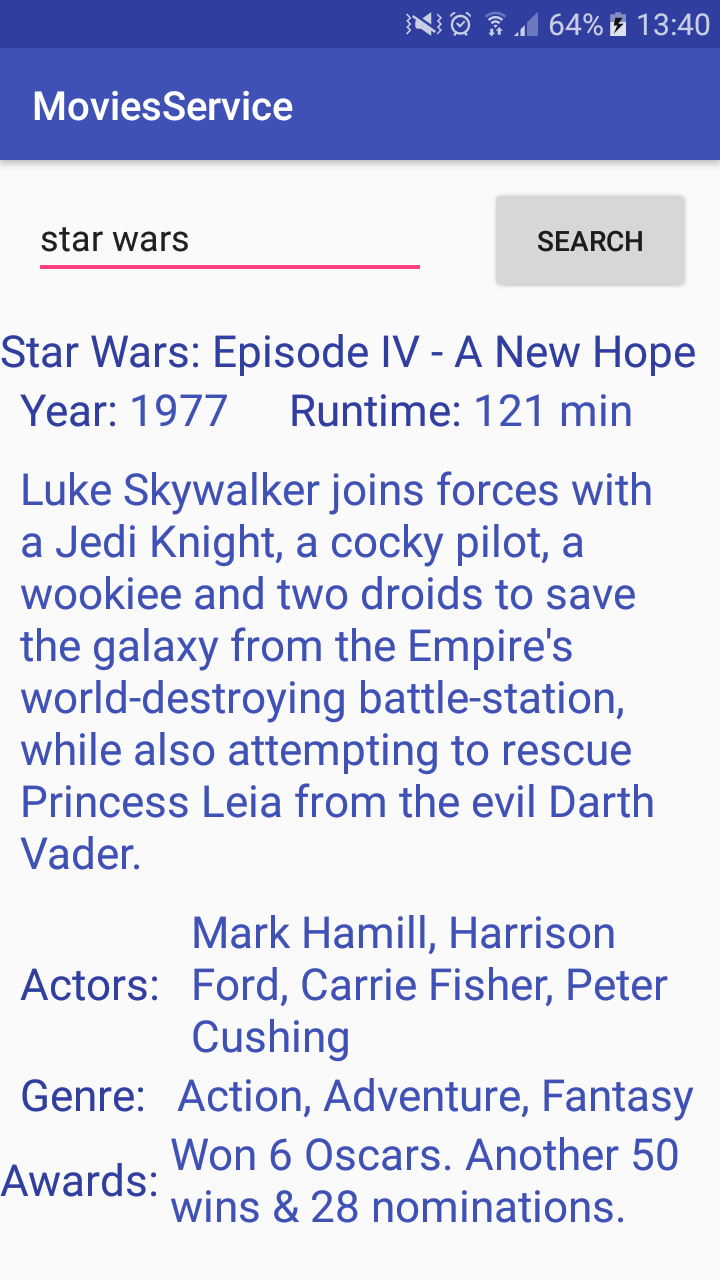
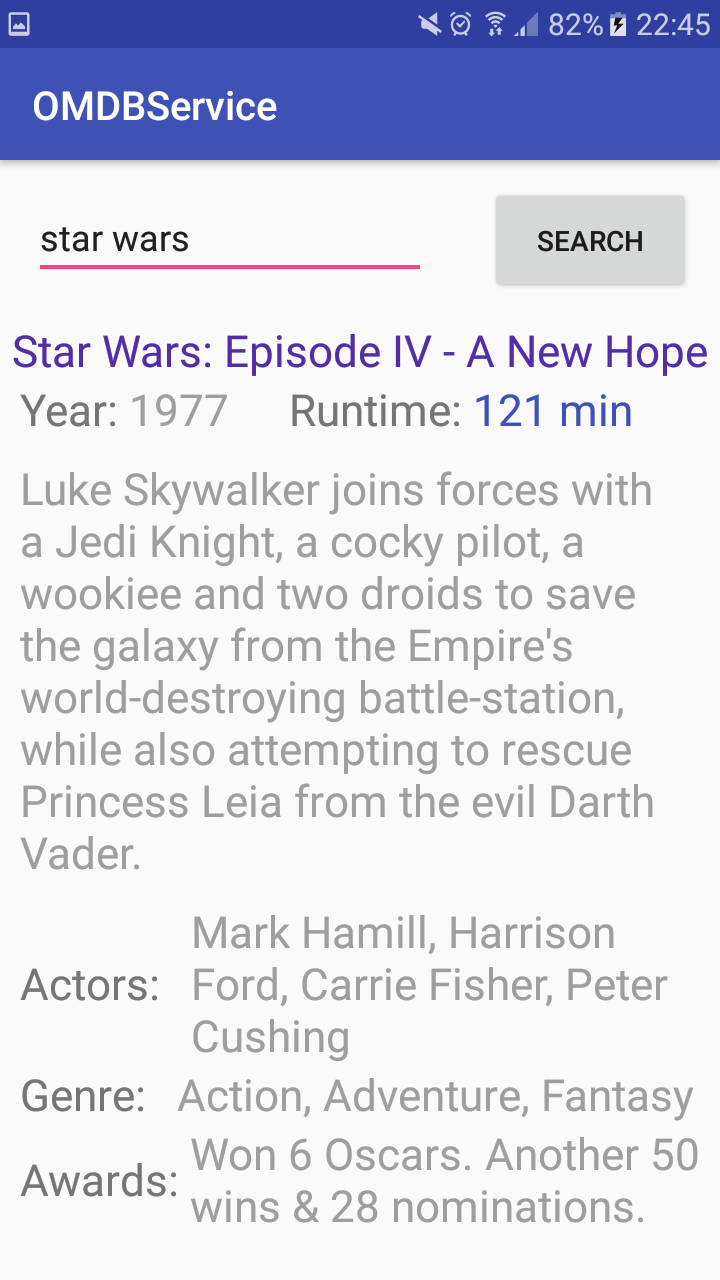
add databinding

diff --git a/app/src/main/java/com/example/escosta/omdbservice/MainActivity.java b/app/src/main/java/com/example/escosta/omdbservice/MainActivity.java
@@ -1,29 +1,34 @@
-package com.example.escosta.moviesservice;
+package com.example.escosta.omdbservice;
 
 import android.content.BroadcastReceiver;
 import android.content.Context;
 import android.content.Intent;
 import android.content.IntentFilter;
+import android.databinding.DataBindingUtil;
 import android.net.Uri;
 import android.os.Bundle;
 import android.support.v4.content.LocalBroadcastManager;
 import android.support.v7.app.AppCompatActivity;
 import android.view.View;
 import android.widget.EditText;
-import android.widget.TextView;
 import android.widget.Toast;
 
-import com.example.escosta.moviesservice.model.DataItem;
-import com.example.escosta.moviesservice.services.MyService;
-import com.example.escosta.moviesservice.utils.NetworkHelper;
+import com.example.escosta.omdbservice.databinding.ActivityMainBinding;
+import com.example.escosta.omdbservice.model.DataItem;
+import com.example.escosta.omdbservice.services.MyService;
+import com.example.escosta.omdbservice.utils.NetworkHelper;
 
 public class MainActivity extends AppCompatActivity {
 
+
+    private static final String TAG = "EDUARDO";
     private static String JSON_URL = "http://www.omdbapi.com/?t=";
 
     private boolean networkOk;
 
-    TextView title, year, plot, genre, actors, awards,runtime;
+    ActivityMainBinding binding;
+
+    String title, year, plot, genre, actors, awards,runtime;
 
     EditText search;
 
@@ -37,31 +42,25 @@ public class MainActivity extends AppCompatActivity {
             dataItems = (DataItem) intent
                     .getParcelableExtra(MyService.MY_SERVICE_PAYLOAD);
 
-            if (dataItems.getTitle() != null) {
-                title.setText(dataItems.getTitle());
-                year.setText(dataItems.getYear());
-                runtime.setText(dataItems.getRuntime());
-                plot.setText(dataItems.getPlot());
-                actors.setText(dataItems.getActors());
-                genre.setText(dataItems.getGenre());
-                awards.setText(dataItems.getAwards());
-            }
+            title = (dataItems.getTitle());
+            year = (dataItems.getYear());
+            runtime = (dataItems.getRuntime());
+            plot = (dataItems.getPlot());
+            actors = (dataItems.getActors());
+            genre = (dataItems.getGenre());
+            awards = (dataItems.getAwards());
+
+            Movie movie = new Movie(title, year, runtime, genre, actors, plot, awards);
+
+            binding.setMovie(movie);
         }
     };
 
     @Override
     protected void onCreate(Bundle savedInstanceState) {
         super.onCreate(savedInstanceState);
-        setContentView(R.layout.activity_main);
-
-        title = (TextView) findViewById(R.id.title);
-        year = (TextView) findViewById(R.id.year);
-        plot = (TextView) findViewById(R.id.plot);
-        runtime = (TextView) findViewById(R.id.runtime);
-        genre = (TextView) findViewById(R.id.genre);
-        actors = (TextView) findViewById(R.id.actors);
-        awards = (TextView) findViewById(R.id.awards);
-
+//        setContentView(R.layout.activity_main);
+        binding = DataBindingUtil.setContentView(this, R.layout.activity_main);
 
         search = (EditText) findViewById(R.id.edit_search);
 
@@ -71,8 +70,10 @@ public class MainActivity extends AppCompatActivity {
 
         networkOk = NetworkHelper.hasNetworkAccess(this);
 
-    }
 
+//        Movie movie = new Movie("Eduardo", "1996", "20", "fiction", "Eduardo Costa", "Intern at IBM", "Best Intern");
+
+    }
     @Override
     protected void onDestroy() {
         super.onDestroy();
@@ -98,4 +99,3 @@ public class MainActivity extends AppCompatActivity {
     }
 
 }
-

diff --git a/app/src/main/java/com/example/escosta/omdbservice/Movie.java b/app/src/main/java/com/example/escosta/omdbservice/Movie.java
@@ -1,0 +1,55 @@
+package com.example.escosta.omdbservice;
+
+/**
+ * Created by escosta on 15/05/2017.
+ */
+
+public class Movie {
+
+    public final String title;
+    public final String year;
+    public final String runtime;
+    public final String genre;
+    public final String actors;
+    public final String plot;
+    public final String awards;
+
+    public Movie(String title, String year, String runtime, String genre, String actors, String plot, String awards) {
+
+        this.title = title;
+        this.year = year;
+        this.runtime = runtime;
+        this.genre = genre;
+        this.actors = actors;
+        this.plot = plot;
+        this.awards = awards;
+    }
+
+    public String getTitle() {
+        return title;
+    }
+
+    public String getYear() {
+        return year;
+    }
+
+    public String getRuntime() {
+        return runtime;
+    }
+
+    public String getGenre() {
+        return genre;
+    }
+
+    public String getActors() {
+        return actors;
+    }
+
+    public String getPlot() {
+        return plot;
+    }
+
+    public String getAwards() {
+        return awards;
+    }
+}

diff --git a/app/src/main/java/com/example/escosta/omdbservice/model/DataItem.java b/app/src/main/java/com/example/escosta/omdbservice/model/DataItem.java
@@ -1,4 +1,4 @@
-package com.example.escosta.moviesservice.model;
+package com.example.escosta.omdbservice.model;
 
 import android.os.Parcel;
 import android.os.Parcelable;
@@ -37,6 +37,7 @@ public class DataItem implements Parcelable {
     private String production;
     private String website;
     private String response;
+
 
     public String getTitle() {
         return title;
@@ -304,7 +305,7 @@ public class DataItem implements Parcelable {
         this.response = in.readString();
     }
 
-    public static final Parcelable.Creator<DataItem> CREATOR = new Parcelable.Creator<DataItem>() {
+    public static final Creator<DataItem> CREATOR = new Creator<DataItem>() {
         @Override
         public DataItem createFromParcel(Parcel source) {
             return new DataItem(source);

diff --git a/app/src/main/java/com/example/escosta/omdbservice/services/MyService.java b/app/src/main/java/com/example/escosta/omdbservice/services/MyService.java
@@ -1,4 +1,4 @@
-package com.example.escosta.moviesservice.services;
+package com.example.escosta.omdbservice.services;
 
 import android.app.IntentService;
 import android.content.Intent;
@@ -7,8 +7,8 @@ import android.support.v4.content.LocalBroadcastManager;
 import android.util.Log;
 
 import com.alibaba.fastjson.JSON;
-import com.example.escosta.moviesservice.model.DataItem;
-import com.example.escosta.moviesservice.utils.HttpHelper;
+import com.example.escosta.omdbservice.model.DataItem;
+import com.example.escosta.omdbservice.utils.HttpHelper;
 
 import java.io.IOException;
 

diff --git a/app/src/androidTest/java/com/example/escosta/omdbservice/ExampleInstrumentedTest.java b/app/src/androidTest/java/com/example/escosta/omdbservice/ExampleInstrumentedTest.java
@@ -1,4 +1,4 @@
-package com.example.escosta.moviesservice;
+package com.example.escosta.omdbservice;
 
 import android.content.Context;
 import android.support.test.InstrumentationRegistry;
@@ -21,6 +21,6 @@ public class ExampleInstrumentedTest {
         // Context of the app under test.
         Context appContext = InstrumentationRegistry.getTargetContext();
 
-        assertEquals("com.example.escosta.moviesservice", appContext.getPackageName());
+        assertEquals("com.example.escosta.omdbservice", appContext.getPackageName());
     }
 }

diff --git a/app/src/main/java/com/example/escosta/omdbservice/utils/HttpHelper.java b/app/src/main/java/com/example/escosta/omdbservice/utils/HttpHelper.java
@@ -1,4 +1,4 @@
-package com.example.escosta.moviesservice.utils;
+package com.example.escosta.omdbservice.utils;
 
 import java.io.BufferedOutputStream;
 import java.io.ByteArrayOutputStream;

diff --git a/app/src/main/java/com/example/escosta/omdbservice/utils/NetworkHelper.java b/app/src/main/java/com/example/escosta/omdbservice/utils/NetworkHelper.java
@@ -1,4 +1,4 @@
-package com.example.escosta.moviesservice.utils;
+package com.example.escosta.omdbservice.utils;
 
 import android.content.Context;
 import android.net.ConnectivityManager;

diff --git a/app/src/main/java/com/example/escosta/omdbservice/model/Rating.java b/app/src/main/java/com/example/escosta/omdbservice/model/Rating.java
@@ -1,4 +1,4 @@
-package com.example.escosta.moviesservice.model;
+package com.example.escosta.omdbservice.model;
 
 import android.os.Parcel;
 import android.os.Parcelable;

diff --git a/app/src/test/java/com/example/escosta/omdbservice/ExampleUnitTest.java b/app/src/test/java/com/example/escosta/omdbservice/ExampleUnitTest.java
@@ -1,4 +1,4 @@
-package com.example.escosta.moviesservice;
+package com.example.escosta.omdbservice;
 
 import org.junit.Test;
 
